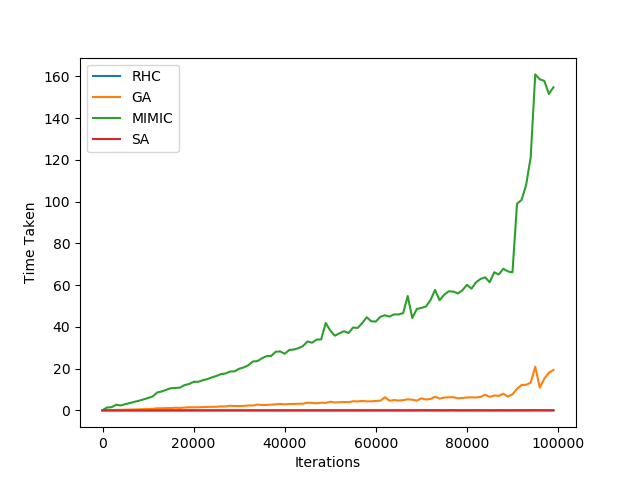
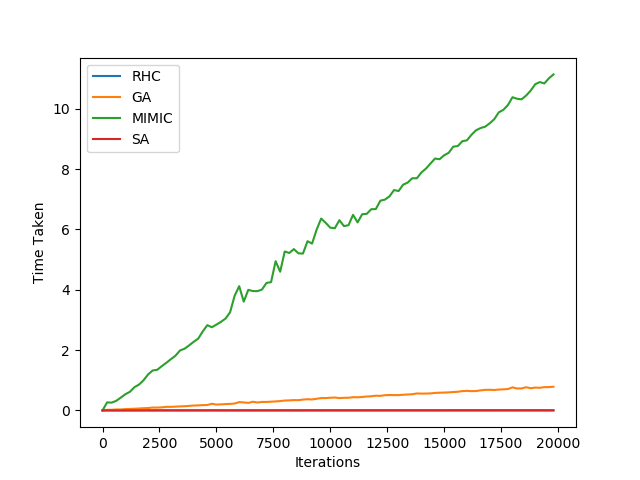
Fixes

diff --git a/Assignment 2/jython/tsp.py b/Assignment 2/jython/tsp.py
@@ -49,7 +49,7 @@ def perform_comparsion():
         record.append(tsp.value(rhc.getOptimal()))
         record.append(toc - tick)
 
-        sa = SimulatedAnnealing(1e10, 0.999, hcp)
+        sa = SimulatedAnnealing(1e10, 0.5, hcp)
         model = FixedIterationTrainer(sa, iterations)
         tick = time.time()
         model.train()
@@ -60,8 +60,9 @@ def perform_comparsion():
         mutation = SwapMutation()
         tspx = TravelingSalesmanCrossOver(tsp)
         ggap = GenericGeneticAlgorithmProblem(tsp, perm, mutation, tspx)
-        ga = StandardGeneticAlgorithm(200, 150, 25, ggap)
+        ga = StandardGeneticAlgorithm(200, 100, 25, ggap)
         model = FixedIterationTrainer(ga, iterations)
+        tick = time.time()
         model.train()
         toc = time.time()
         record.append(tsp.value(ga.getOptimal()))
@@ -70,15 +71,16 @@ def perform_comparsion():
         ranges = array('i', [N] * N)
         tree = DiscreteDependencyTree(0.1, ranges)
         gpop = GenericProbabilisticOptimizationProblem(tsp, perm, tree)
-        mimic = MIMIC(200, 100, gpop)
+        mimic = MIMIC(200, 25, gpop)
         model = FixedIterationTrainer(mimic, iterations)
+        tick = time.time()
         model.train()
         toc = time.time()
         record.append(tsp.value(mimic.getOptimal()))
         record.append(toc - tick)
 
         data.append(record)
-    with open("tsp.csv", "w+") as f:
+    with open("data/tsp.csv", "w+") as f:
         writer = csv.writer(f)
         writer.writerows(data)
 
@@ -155,7 +157,8 @@ def ga_analysis():
         writer = csv.writer(f)
         writer.writerows(records)
 
-ga_analysis()
-sa_analysis()
-mimic_analysis()
-# perform_comparsion()
+# ga_analysis()
+# sa_analysis()
+# mimic_analysis()
+# rhc_analysis()
+perform_comparsion()

diff --git a/Assignment 2/jython/knapsack.py b/Assignment 2/jython/knapsack.py
@@ -58,7 +58,7 @@ def perform_analysis():
         record.append(knapsack.value(rhc.getOptimal()))
         record.append(toc - tick)
 
-        sa = SimulatedAnnealing(1e10, 0.95, hcp)
+        sa = SimulatedAnnealing(1e10, 0.99, hcp)
         model = FixedIterationTrainer(sa, iterations)
         tick = time.time()
         model.train()
@@ -69,8 +69,9 @@ def perform_analysis():
         mutation = DiscreteChangeOneMutation(ranges)
         unix = UniformCrossOver()
         ggap = GenericGeneticAlgorithmProblem(knapsack, unif, mutation, unix)
-        ga = StandardGeneticAlgorithm(200, 150, 25, ggap)
+        ga = StandardGeneticAlgorithm(200, 50, 25, ggap)
         model = FixedIterationTrainer(ga, iterations)
+        tick = time.time()
         model.train()
         toc = time.time()
         record.append(knapsack.value(ga.getOptimal()))
@@ -80,13 +81,14 @@ def perform_analysis():
         gpop = GenericProbabilisticOptimizationProblem(knapsack, unif, tree)
         mimic = MIMIC(200, 100, gpop)
         model = FixedIterationTrainer(mimic, iterations)
+        tick = time.time()
         model.train()
         toc = time.time()
         record.append(knapsack.value(mimic.getOptimal()))
         record.append(toc - tick)
 
         data.append(record)
-    with open("knapsack.csv", "w+") as f:
+    with open("data/knapsack.csv", "w+") as f:
         writer = csv.writer(f)
         writer.writerows(data)
 
@@ -161,5 +163,5 @@ def ga_analysis():
 
 # ga_analysis()
 # sa_analysis()
-mimic_analysis()
-# perform_analysis()
+# mimic_analysis()
+perform_analysis()

diff --git a/Assignment 2/jython/continuouspeaks.py b/Assignment 2/jython/continuouspeaks.py
@@ -56,8 +56,9 @@ def performance_comparison():
         mutation = DiscreteChangeOneMutation(ranges)
         unix = SingleCrossOver()
         ggap = GenericGeneticAlgorithmProblem(cp, unif, mutation, unix)
-        ga = StandardGeneticAlgorithm(200, 150, 25, ggap)
+        ga = StandardGeneticAlgorithm(200, 100, 25, ggap)
         model = FixedIterationTrainer(ga, iterations)
+        tick = time.time()
         model.train()
         toc = time.time()
         record.append(cp.value(ga.getOptimal()))
@@ -65,15 +66,16 @@ def performance_comparison():
 
         tree = DiscreteDependencyTree(0.1, ranges)
         gpop = GenericProbabilisticOptimizationProblem(cp, unif, tree)
-        mimic = MIMIC(200, 100, gpop)
+        mimic = MIMIC(200, 50, gpop)
         model = FixedIterationTrainer(mimic, iterations)
+        tick = time.time()
         model.train()
         toc = time.time()
         record.append(cp.value(mimic.getOptimal()))
         record.append(toc - tick)
 
         data.append(record)
-    with open("cp.csv", "w+") as f:
+    with open("data/cp.csv", "w+") as f:
         writer = csv.writer(f)
         writer.writerows(data)
 
@@ -145,7 +147,7 @@ def ga_analysis():
         writer.writerows(records)
 
 
-ga_analysis()
-sa_analysis()
-mimic_analysis()
-# performance_comparison()
+# ga_analysis()
+# sa_analysis()
+# mimic_analysis()
+performance_comparison()

diff --git a/Assignment 2/problem_plotter.py b/Assignment 2/problem_plotter.py
@@ -1,11 +1,10 @@
 import matplotlib.pyplot as plt
 import csv
 
-
 def plot(problem):
     fig, ax = plt.subplots()
     ax.set_xlabel("Iterations")
-    ax.set_ylabel("Fitness function")
+    ax.set_ylabel("Fitness")
     x = []
 
     ga = []
@@ -17,7 +16,8 @@ def plot(problem):
     sa_t = []
     rhc_t = []
     mimic_t = []
-    with open("jython/{}.csv".format(problem)) as f:
+    records = []
+    with open("jython/data/{}.csv".format(problem)) as f:
         reader = csv.reader(f)
         for row in reader:
             x.append(float(row[0]))
@@ -29,7 +29,7 @@ def plot(problem):
             ga_t.append(float(row[6]))
             mimic.append(float(row[7]))
             mimic_t.append(float(row[8]))
-
+            records.append(row)
     ax.plot(x, rhc, label="RHC")
     ax.plot(x, ga, label="GA")
     ax.plot(x, mimic, label="MIMIC")
@@ -50,7 +50,6 @@ def plot(problem):
     plt.savefig("img/{}-time.png".format(problem))
 
 
-
-# plot("knapsack")
-# plot("tsp")
+plot("knapsack")
+plot("tsp")
 plot("cp")

diff --git a/Assignment 2/problem_analysis_plotter.py b/Assignment 2/problem_analysis_plotter.py
@@ -55,7 +55,12 @@ def plotter(problem):
     plt.legend(loc = "best")
     plt.savefig(f"img/{problem}_MIMIC.png")
 
+def comparison_plot(problem, details):
+    pass
+
 
 # plotter("cp")
 # plotter("tsp")
-plotter("knapsack")
+# plotter("knapsack")
+
+# comparison_plot("cp", [("to_mate=100, to_mutate=25", 3), ()])
